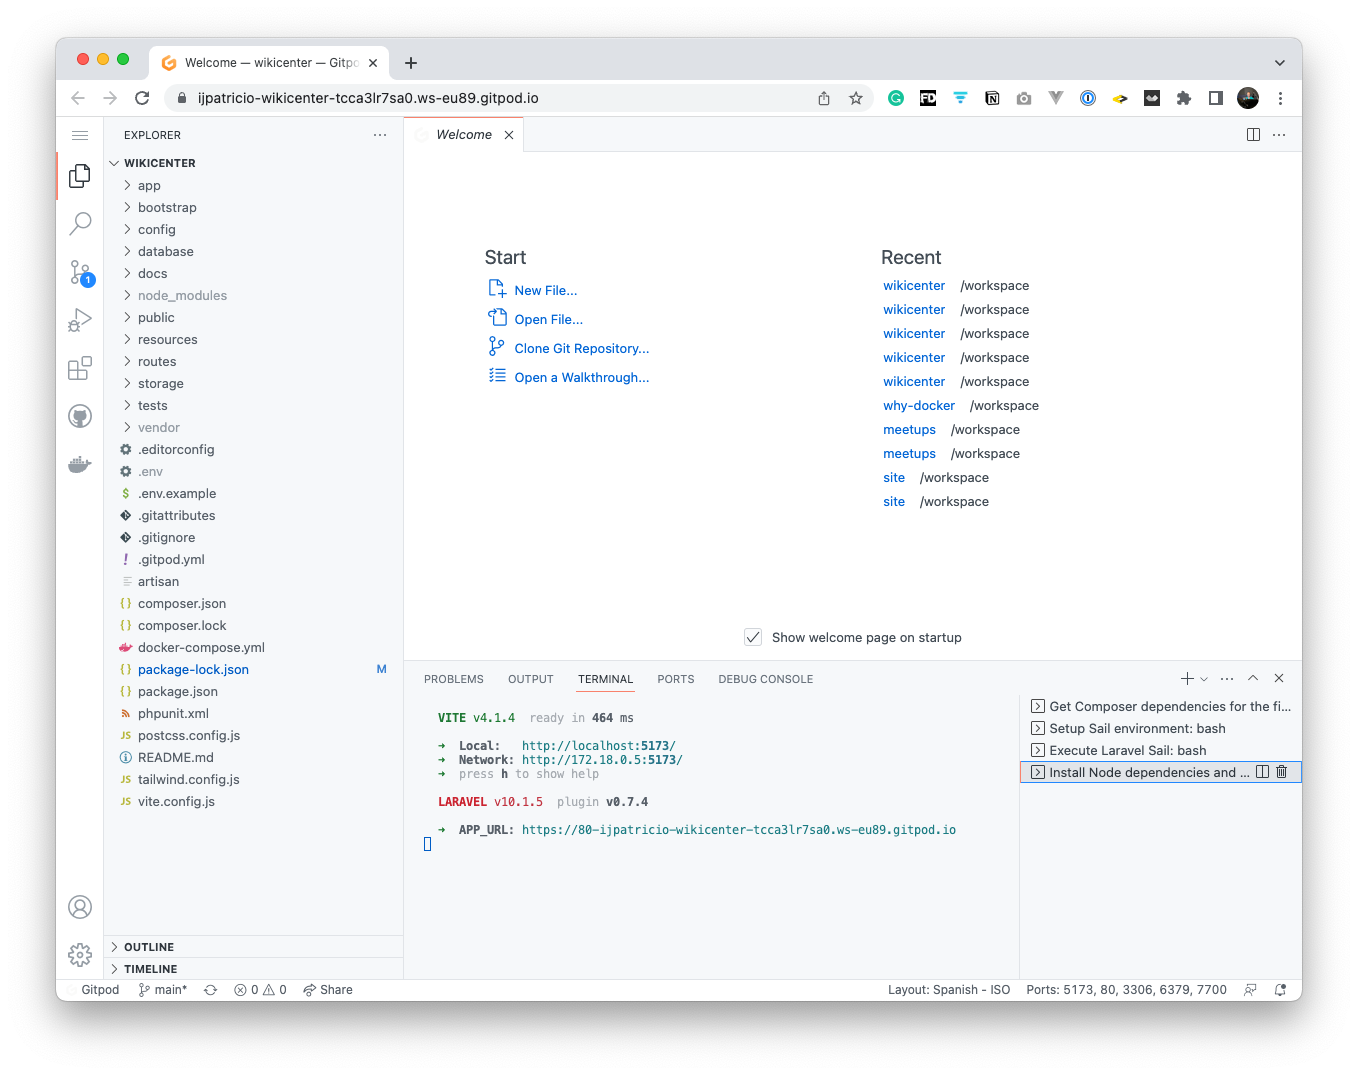
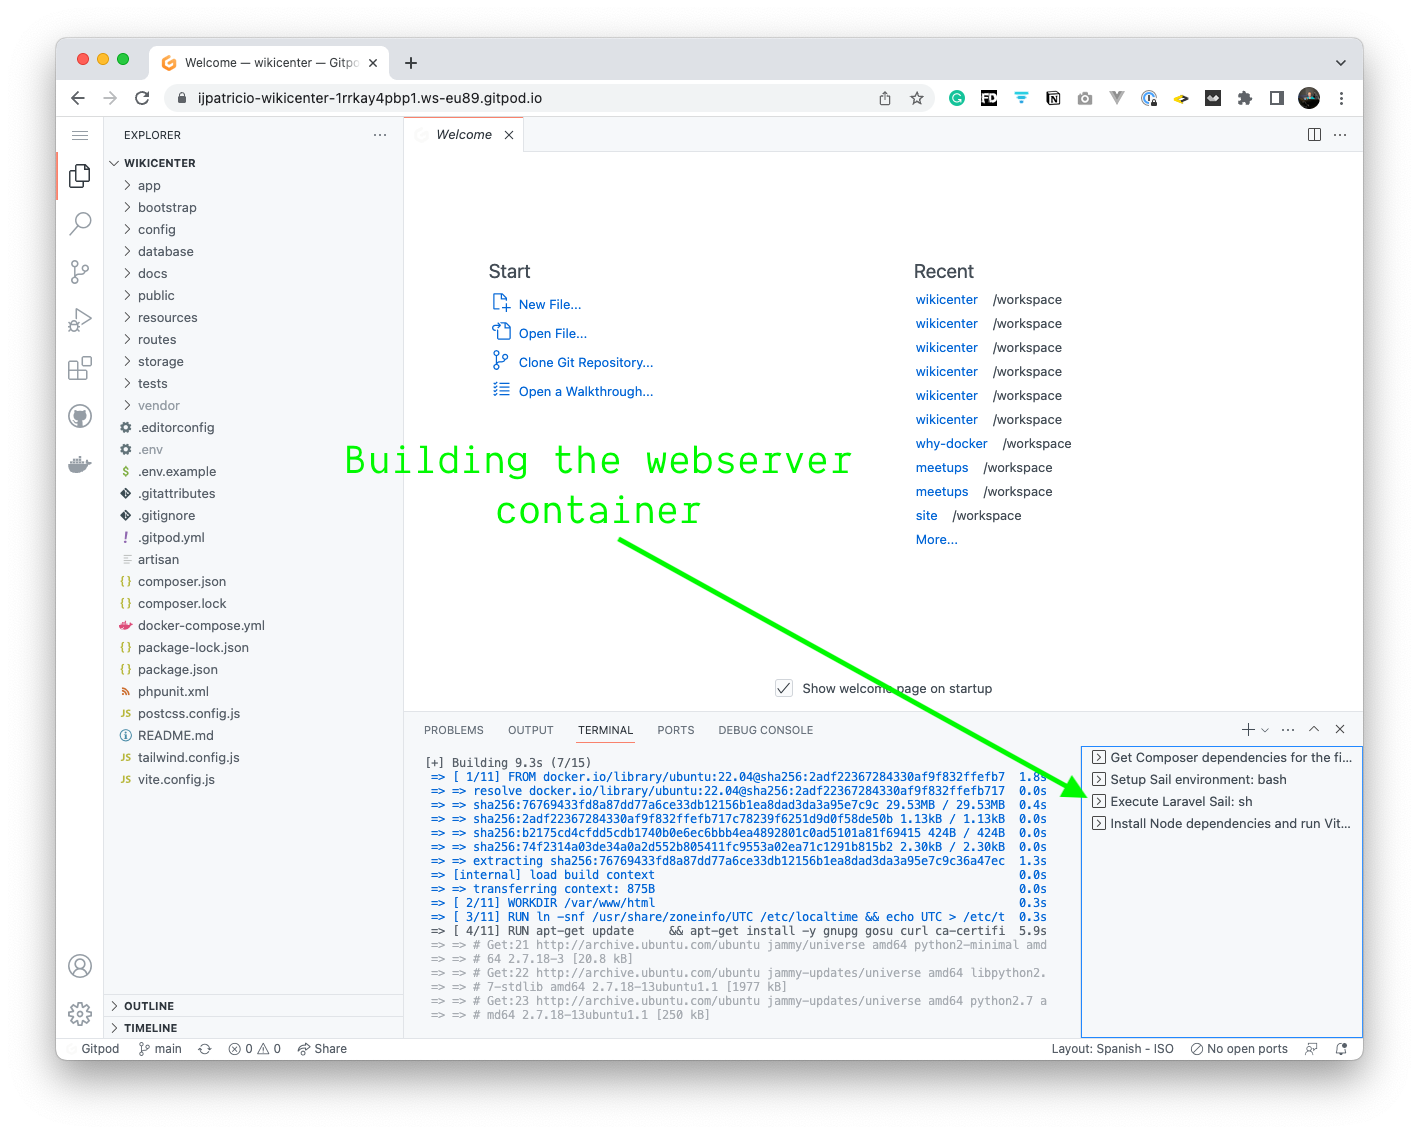
Docs

diff --git a/README.md b/README.md
@@ -11,17 +11,26 @@ If you want to try if, go to [WikiCenter on GitPod](https://gitpod.io/#https://g
 You can create an account in under a minute, using your Git provider of choice. You don't have to give any permissions to repositories,
 only to read your e-mail address.
 
-The tasks in [.gitpod.yml](./.gitpod.yml) will run. 
+The tasks in [.gitpod.yml](./.gitpod.yml) will run.
 
-After all the 4 tasks are running, you can visit the app, for the link provided on the service of port 80 (even it will be https on 443) :)
+![Coding in GitPod 1](./docs/images/coding-in-gitpod-1.png)
 
-Then run:
+After all the 4 tasks are running, the last one keeps running `Vite`.
+
+![Coding in GitPod 2](./docs/images/coding-in-gitpod-2.png)
+
+You can now visit the app, for the link provided on local 80. (It will be public 443 SSL)
+
+![Coding in GitPod 3](./docs/images/coding-in-gitpod-3.png)
+Then run, in an available terminal, (or a new one):
 
 ```bash
-./vendor/bin/sail npm run dev
+./vendor/bin/sail artisan migrate:fresh --seed
 ```
 
 And now you can navigate to `/admin`. The login form will be filled for you automatically, just click Login :)
+
+![Coding in GitPod 4](./docs/images/coding-in-gitpod-4.png)
 
 ## License
 
